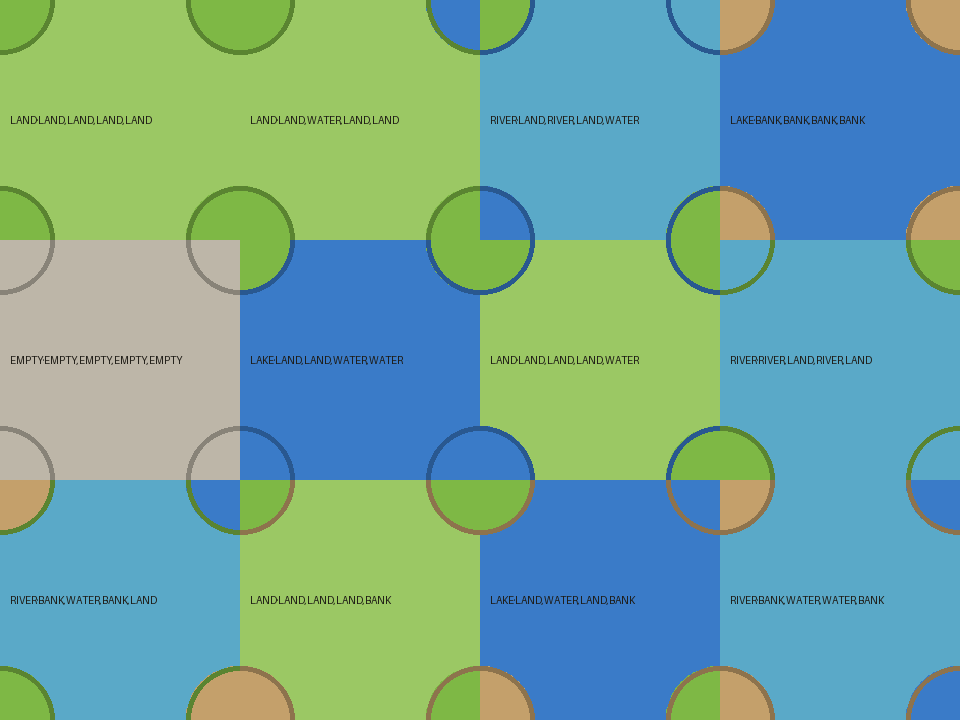
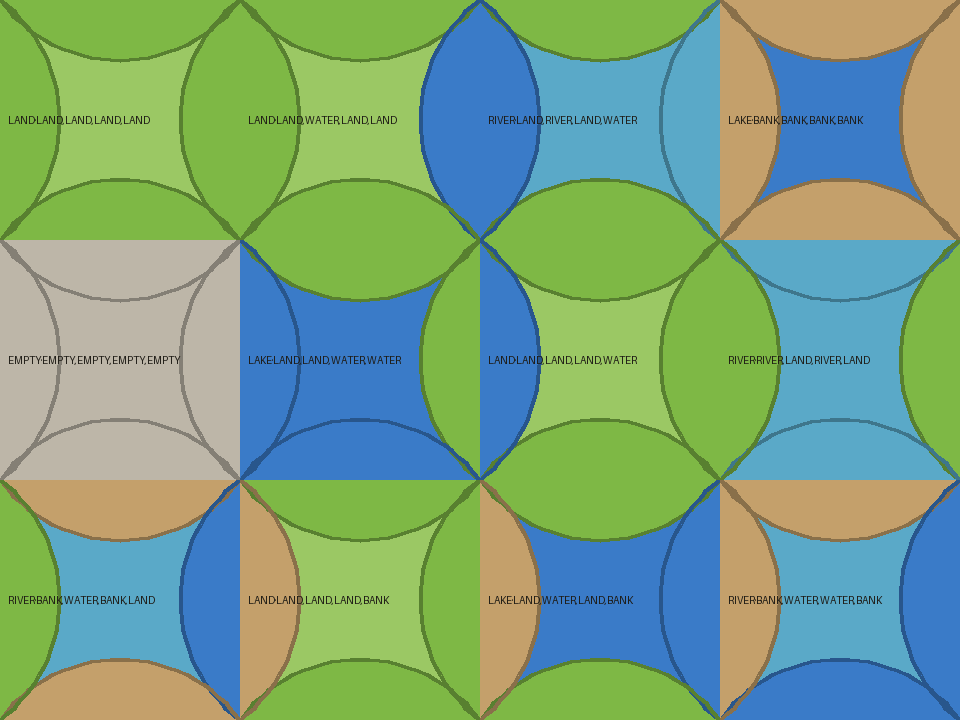
tile: 4 弧线改为顶点对顶点的圆弧段
用户反馈：弧线应是圆交于正方形顶点的一段（端点=边的两个顶点），
不是贴住角。重写 tile_placeholder.gd 几何：

- 每条弧对应正方形一条边，弧的起点/终点 = 该边的两个顶点
- 弧的圆心 = 该边外侧延长线（沿法线方向），半径让圆恰好过两端点
  · 弓深 BOW = 半边长/2 固定
  · ARC_K = HALF + (HALF²-BOW²)/(2·BOW)，ARC_R = √(HALF²+(ARC_K-HALF)²)
- 填充顺序：整块铺中心色 → 叠加 4 个边弓形 → 画 4 条弧线做边界
  （5 段无缝：4 边弓形 + 1 中心区，无空白角）
- 弧线颜色 = 对应边色压暗 0.30

验证：--game-smoke 3/3 过；--capture-game opengl3 出图正常。
docs/preview_tile_rendering.py 同步新几何，重生成参考图。

diff --git a/docs/preview_tile_rendering.py b/docs/preview_tile_rendering.py
@@ -1,7 +1,14 @@
 #!/usr/bin/env python3
 # -*- coding: utf-8 -*-
-"""用 Pillow 模拟 Godot 的 4 弧线 + 5 段 tile_placeholder.gd 渲染。
-生成一张参考图，验证视觉效果是否合理。"""
+"""用 Pillow 模拟 Godot 的 4 弧线 + 5 段 tile_placeholder.gd 渲染（新设计）。
+
+新设计：
+- 4 条弧，每条弧对应正方形的一条边
+- 弧的端点 = 该边的两个顶点
+- 弧的圆心 = 该边外侧延长线（沿法线方向外侧 2×半边长），半径让圆过两顶点
+- 弧 = 90° 短弧，在正方形内部凸向中心
+- 4 条弧围出 5 段：4 个弓形（每弓形 = 弧线 + 边线）+ 1 个中心菱形
+"""
 from PIL import Image, ImageDraw
 import math
 import os
@@ -9,20 +16,21 @@ import os
 OUT = "docs/tile_placeholder_preview.png"
 os.makedirs(os.path.dirname(OUT), exist_ok=True)
 
-S = 240       # tile size (DESIGN_SIZE)
+S = 240
 HALF = S // 2
-ARC_R = int(HALF * 0.45)
-ARC_WIDTH = 5
-PTS = 28
+BOW = HALF * 0.5
+ARC_K = HALF + (HALF * HALF - BOW * BOW) / (2.0 * BOW)
+ARC_R = math.sqrt(HALF * HALF + (ARC_K - HALF) * (ARC_K - HALF))
+ARC_SEGMENTS = 28
+ARC_WIDTH = 4
 
-
-# 模拟 EdgeKind → color
+# 配色（按 Godot 端定义）
 EDGE_COLORS = {
-    "EMPTY": (189, 182, 168),  # gray
-    "LAND":  (126, 184, 69),   # green
-    "WATER": (58, 123, 200),   # blue
-    "RIVER": (90, 169, 200),   # light blue
-    "BANK":  (196, 160, 107),  # tan
+    "EMPTY": (189, 182, 168),  # 灰空地
+    "LAND":  (126, 184, 69),   # 绿地
+    "WATER": (58, 123, 200),   # 蓝水
+    "RIVER": (90, 169, 200),   # 浅蓝河
+    "BANK":  (196, 160, 107),  # 沙岸
 }
 CENTER_COLORS = {
     "EMPTY": (189, 182, 168),
@@ -30,7 +38,30 @@ CENTER_COLORS = {
     "LAKE":  (58, 123, 200),
     "RIVER": (90, 169, 200),
 }
-ARC_COLOR = (58, 123, 200)
+
+
+def arc_color_for(kind):
+    """边色压暗 30%，作为弧线颜色。"""
+    r, g, b = EDGE_COLORS[kind]
+    return (int(r * 0.7), int(g * 0.7), int(b * 0.7))
+
+
+def short_arc_points(p1, p2, arc_center, n=ARC_SEGMENTS):
+    """从 p2 到 p1 沿 90° 短弧采样（向中心凸的方向）。"""
+    dx1, dy1 = p1[0] - arc_center[0], p1[1] - arc_center[1]
+    dx2, dy2 = p2[0] - arc_center[0], p2[1] - arc_center[1]
+    a1 = math.atan2(dy1, dx1)
+    a2 = math.atan2(dy2, dx2)
+    diff = a1 - a2
+    while diff > math.pi: diff -= 2 * math.pi
+    while diff < -math.pi: diff += 2 * math.pi
+    pts = []
+    for i in range(n + 1):
+        t = i / n
+        a = a2 + diff * t
+        pts.append((arc_center[0] + math.cos(a) * ARC_R,
+                    arc_center[1] + math.sin(a) * ARC_R))
+    return pts
 
 
 def draw_tile(edge_kinds, center_kind):
@@ -38,74 +69,81 @@ def draw_tile(edge_kinds, center_kind):
     img = Image.new("RGB", (S, S), (245, 240, 228))
     draw = ImageDraw.Draw(img)
 
-    # 1) Background: center color
-    bg = CENTER_COLORS[center_kind]
-    draw.rectangle([0, 0, S, S], fill=bg)
+    # PIL 使用左上角原点，center = (HALF, HALF)
+    cx, cy = HALF, HALF
 
-    # 2) 4 corner wedges
-    # NW = (-HALF, -HALF) in centered coords; PIL uses top-left origin so it's (0, 0)
-    # Order: NW=N, NE=E, SE=S, SW=W
-    corners = [
-        (0, 0, 0, math.pi * 0.5, edge_kinds[0]),       # NW → N
-        (S, 0, math.pi * 0.5, math.pi, edge_kinds[1]), # NE → E
-        (S, S, math.pi, math.pi * 1.5, edge_kinds[2]), # SE → S
-        (0, S, math.pi * 1.5, math.pi * 2.0, edge_kinds[3]), # SW → W
+    # 顶点（顺时针 NW, NE, SE, SW）
+    NW = (cx - HALF, cy - HALF)
+    NE = (cx + HALF, cy - HALF)
+    SE = (cx + HALF, cy + HALF)
+    SW = (cx - HALF, cy + HALF)
+
+    # 4 条弧的圆心（在该边外侧 2×半边长处）
+    arc_centers = [
+        (cx,        cy - ARC_K),  # N 弧
+        (cx + ARC_K, cy),          # E 弧
+        (cx,        cy + ARC_K),  # S 弧
+        (cx - ARC_K, cy),          # W 弧
     ]
-    for (cx, cy, a0, a1, kind) in corners:
-        color = EDGE_COLORS[kind]
-        poly = [(cx, cy)]
-        for i in range(PTS + 1):
-            t = i / PTS
-            a = a0 + t * (a1 - a0)
-            px = cx + math.cos(a) * ARC_R
-            py = cy + math.sin(a) * ARC_R
-            poly.append((px, py))
-        draw.polygon(poly, fill=color)
+    # 每条弧对应的两个顶点（p1, p2）和边色
+    arcs = [
+        (NE, NW, edge_kinds[0], arc_centers[0]),  # N
+        (SE, NE, edge_kinds[1], arc_centers[1]),  # E
+        (SW, SE, edge_kinds[2], arc_centers[2]),  # S
+        (NW, SW, edge_kinds[3], arc_centers[3]),  # W
+    ]
 
-    # 3) 4 blue arcs (PIL arc: bbox = [cx-ARC_R, cy-ARC_R, cx+ARC_R, cy+ARC_R])
-    for (cx, cy, a0, a1, _) in corners:
-        bbox = [cx - ARC_R, cy - ARC_R, cx + ARC_R, cy + ARC_R]
-        draw.arc(bbox, math.degrees(a0), math.degrees(a1), fill=tuple(int(c*0.72) for c in color), width=ARC_WIDTH)
+    # 1) 整块底色 = 中心色（覆盖中心区 + 4 角，消除空白缝隙）
+    draw.rectangle([0, 0, S, S], fill=CENTER_COLORS[center_kind])
 
-    # 4) IR dots
-    # (skip for the preview — would need IR data)
+    # 2) 4 个弓形（边区域）：poly = [p1, p2] + 弧采样点
+    for (p1, p2, kind, ac) in arcs:
+        arc_pts = short_arc_points(p1, p2, ac)
+        poly = [p1, p2] + arc_pts[1:-1]   # 去掉端点（与 p1/p2 重合）
+        poly.append(p1)  # 闭合
+        draw.polygon(poly, fill=EDGE_COLORS[kind])
 
-    # 5) Text label
+    # 3) 4 条弧线（边色压暗）
+    for (p1, p2, kind, ac) in arcs:
+        arc_pts = short_arc_points(p1, p2, ac)
+        for i in range(len(arc_pts) - 1):
+            draw.line([arc_pts[i], arc_pts[i + 1]],
+                      fill=arc_color_for(kind), width=ARC_WIDTH)
+
+    # 4) 文字标签
     label = f"{center_kind}·{','.join(edge_kinds)}"
-    draw.text((10, HALF - 6), label, fill=(29, 26, 20))
+    draw.text((8, HALF - 6), label, fill=(29, 26, 20))
 
     return img
 
 
-# Build a 4x3 grid of representative tiles
+# 12 个代表性地块
 tiles = [
-    (["LAND", "LAND", "LAND", "LAND"], "LAND"),    # plain land
-    (["LAND", "WATER", "LAND", "LAND"], "LAND"),   # water east
-    (["LAND", "RIVER", "LAND", "WATER"], "RIVER"), # mixed water
-    (["BANK", "BANK", "BANK", "BANK"], "LAKE"),    # lake center
-    (["EMPTY", "EMPTY", "EMPTY", "EMPTY"], "EMPTY"),  # empty
-    (["LAND", "LAND", "WATER", "WATER"], "LAKE"),  # water on 2 sides
-    (["LAND", "LAND", "LAND", "WATER"], "LAND"),   # partial water
-    (["RIVER", "LAND", "RIVER", "LAND"], "RIVER"), # river crossings
-    (["BANK", "WATER", "BANK", "LAND"], "RIVER"),  # river bank
-    (["LAND", "LAND", "LAND", "BANK"], "LAND"),
-    (["LAND", "WATER", "LAND", "BANK"], "LAKE"),
-    (["BANK", "WATER", "WATER", "BANK"], "RIVER"),
+    (["LAND",  "LAND",  "LAND",  "LAND"],  "LAND"),    # 全地
+    (["LAND",  "WATER", "LAND",  "LAND"],  "LAND"),    # 单边水
+    (["LAND",  "RIVER", "LAND",  "WATER"], "RIVER"),   # 河混合
+    (["BANK",  "BANK",  "BANK",  "BANK"],  "LAKE"),    # 中心湖
+    (["EMPTY", "EMPTY", "EMPTY", "EMPTY"], "EMPTY"),   # 全空
+    (["LAND",  "LAND",  "WATER", "WATER"], "LAKE"),    # 2 边水
+    (["LAND",  "LAND",  "LAND",  "WATER"], "LAND"),    # 单边水
+    (["RIVER", "LAND",  "RIVER", "LAND"],  "RIVER"),   # 河交叉
+    (["BANK",  "WATER", "BANK",  "LAND"],  "RIVER"),   # 河岸
+    (["LAND",  "LAND",  "LAND",  "BANK"],  "LAND"),
+    (["LAND",  "WATER", "LAND",  "BANK"],  "LAKE"),
+    (["BANK",  "WATER", "WATER", "BANK"],  "RIVER"),
 ]
 
 cols = 4
 rows = math.ceil(len(tiles) / cols)
-cell_w = S
-cell_h = S
-grid_w = cols * cell_w
-grid_h = rows * cell_h
+grid_w = cols * S
+grid_h = rows * S
 grid = Image.new("RGB", (grid_w, grid_h), (255, 255, 255))
 
 for idx, (edges, center) in enumerate(tiles):
     r = idx // cols
     c = idx % cols
     tile_img = draw_tile(edges, center)
-    grid.paste(tile_img, (c * cell_w, r * cell_h))
+    grid.paste(tile_img, (c * S, r * S))
 
 grid.save(OUT)
 print(f"OK: {OUT} ({os.path.getsize(OUT)} bytes, {grid_w}x{grid_h})")
